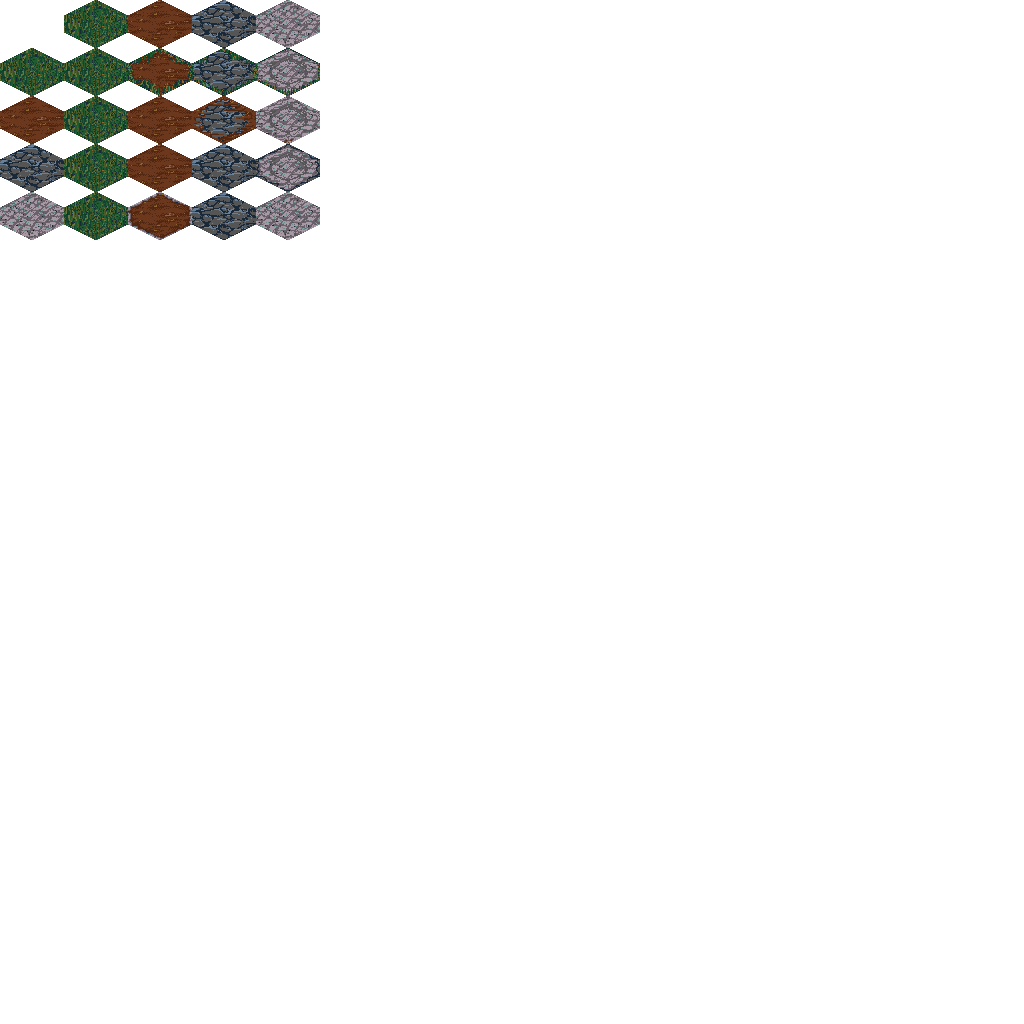
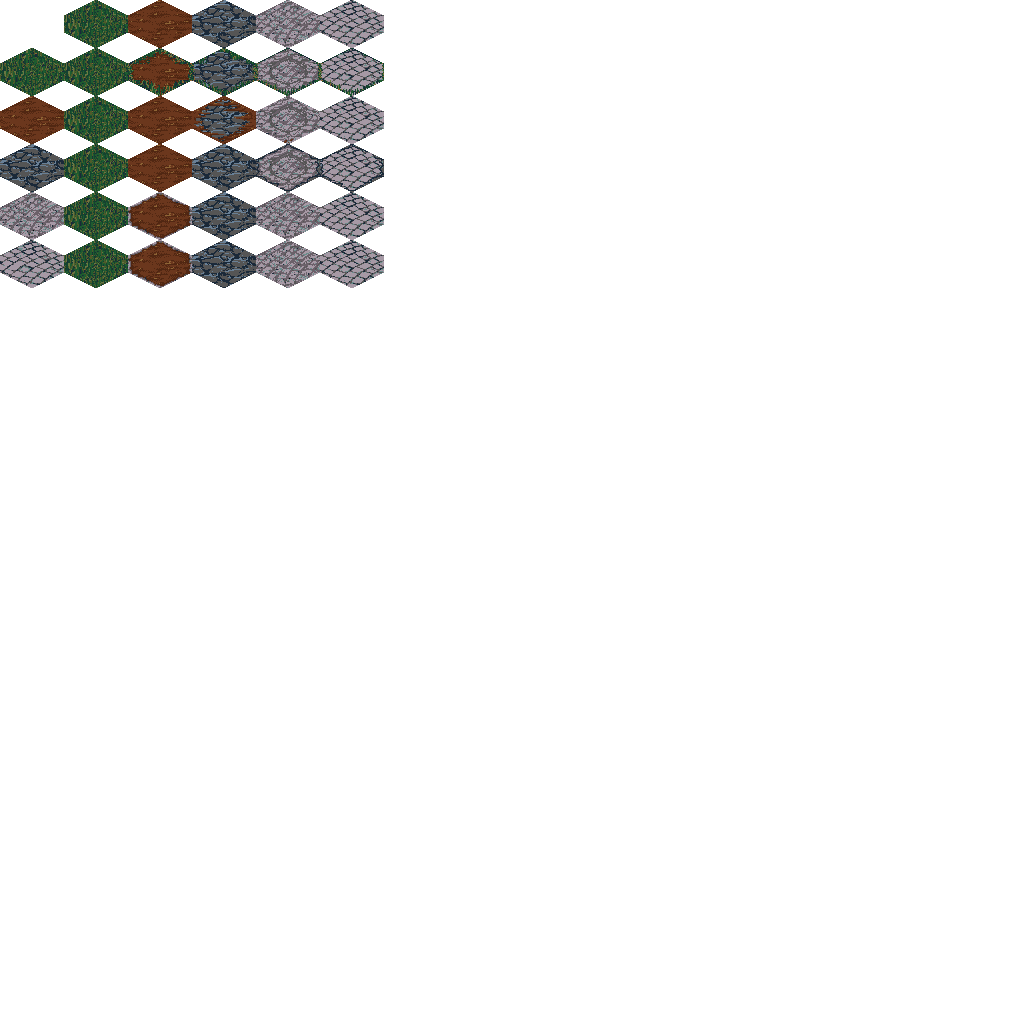
new paved road tile

Changed region(s): [[0.0, 0.0, 0.375, 0.2812]]

diff --git a/map_editor.js b/map_editor.js
@@ -1,7 +1,7 @@
 const backgroundTiles = new Image();
 backgroundTiles.src = "Images/assets/tiles.png";
 const tileWidth = 64, tileHeight = 48;
-const tileNames = ['empty', 'grass', 'dirt', 'stone', 'paved road'];
+const tileNames = ['empty', 'grass', 'dirt', 'stone', 'paved road', 'paved road v2'];
 
 const tileSelectionDropdown = document.getElementById("tile-selection-dropdown");
 tileSelectionDropdown.innerHTML = `<option selected>${tileNames[1]}</option>`;
